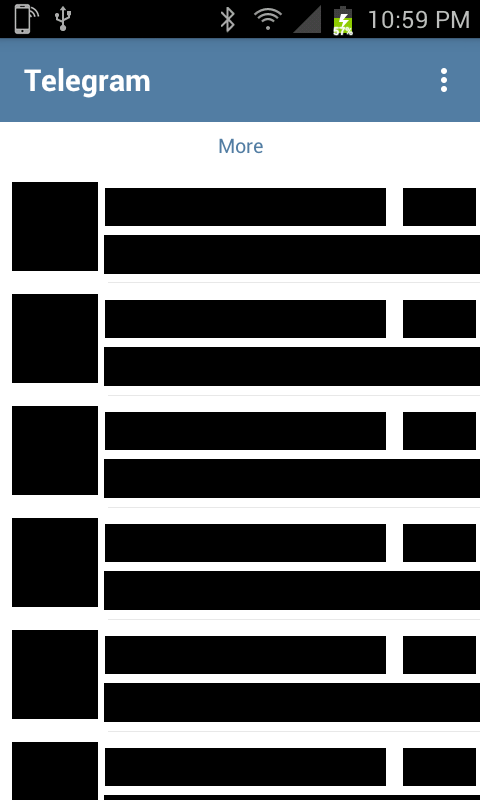
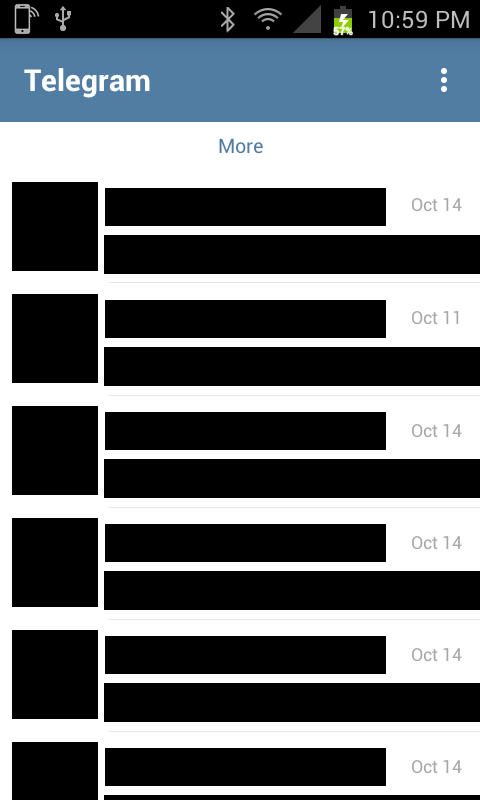
Keep chat dates visible in the Telegram screenshot

diff --git a/docs/SCREENSHOTS.md b/docs/SCREENSHOTS.md
@@ -91,9 +91,9 @@ The original Gallery remains on the S2. Personal camera thumbnails and other per
 
 ## Telegram
 
-The main Chats screen in the optional classic Telegram companion. Chat names, avatars, message previews and dates are covered; the original header, spacing and row separators are unchanged. [Telegram setup](TELEGRAM.md).
+The main Chats screen in the optional classic Telegram companion. Chat names, avatars and message previews are covered; dates, the original header, spacing and row separators are unchanged. [Telegram setup](TELEGRAM.md).
 
-<img src="screenshots/telegram-chats-redacted.png" height="560" alt="Telegram main Chats screen with avatars, names, message previews and dates redacted">
+<img src="screenshots/telegram-chats-redacted.png" height="560" alt="Telegram main Chats screen with avatars, names and message previews redacted">
 
 ## Google Play Music
 
